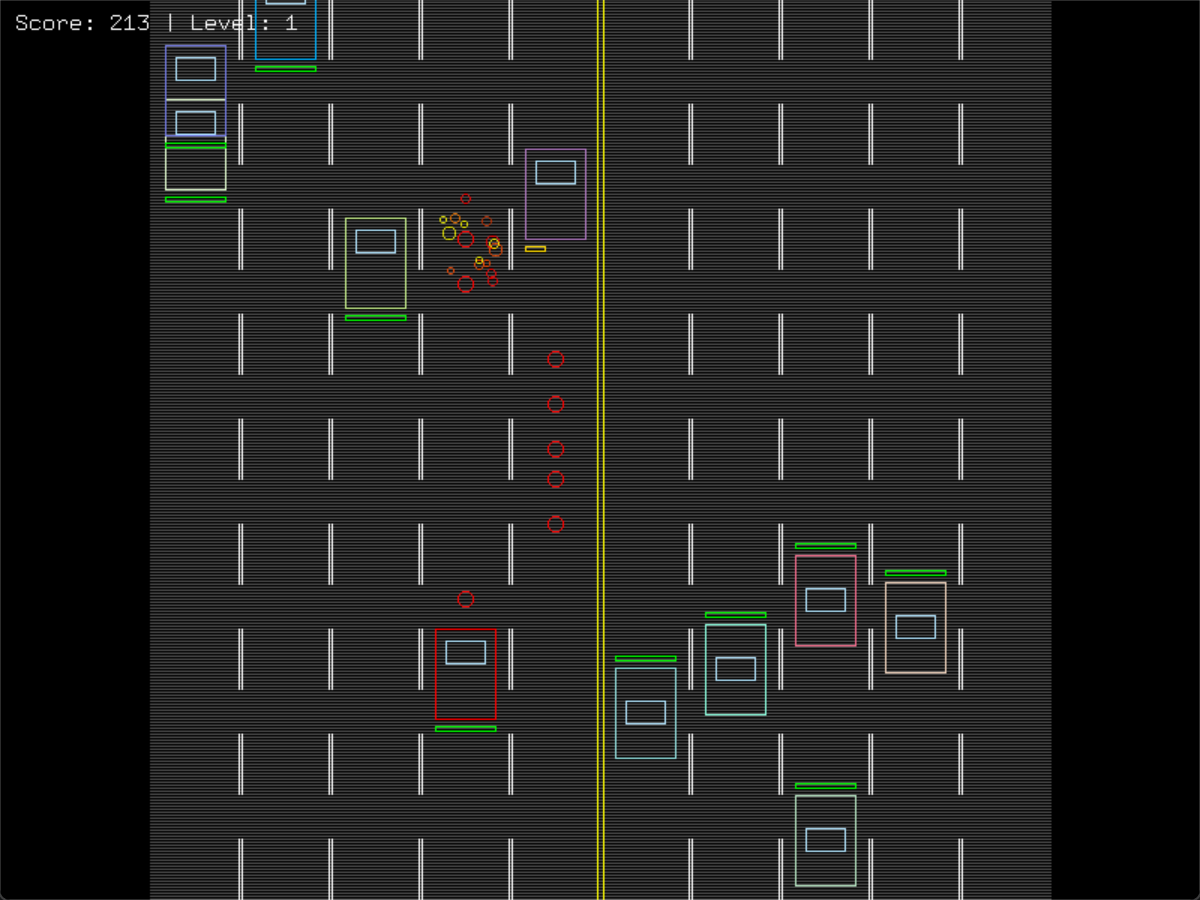
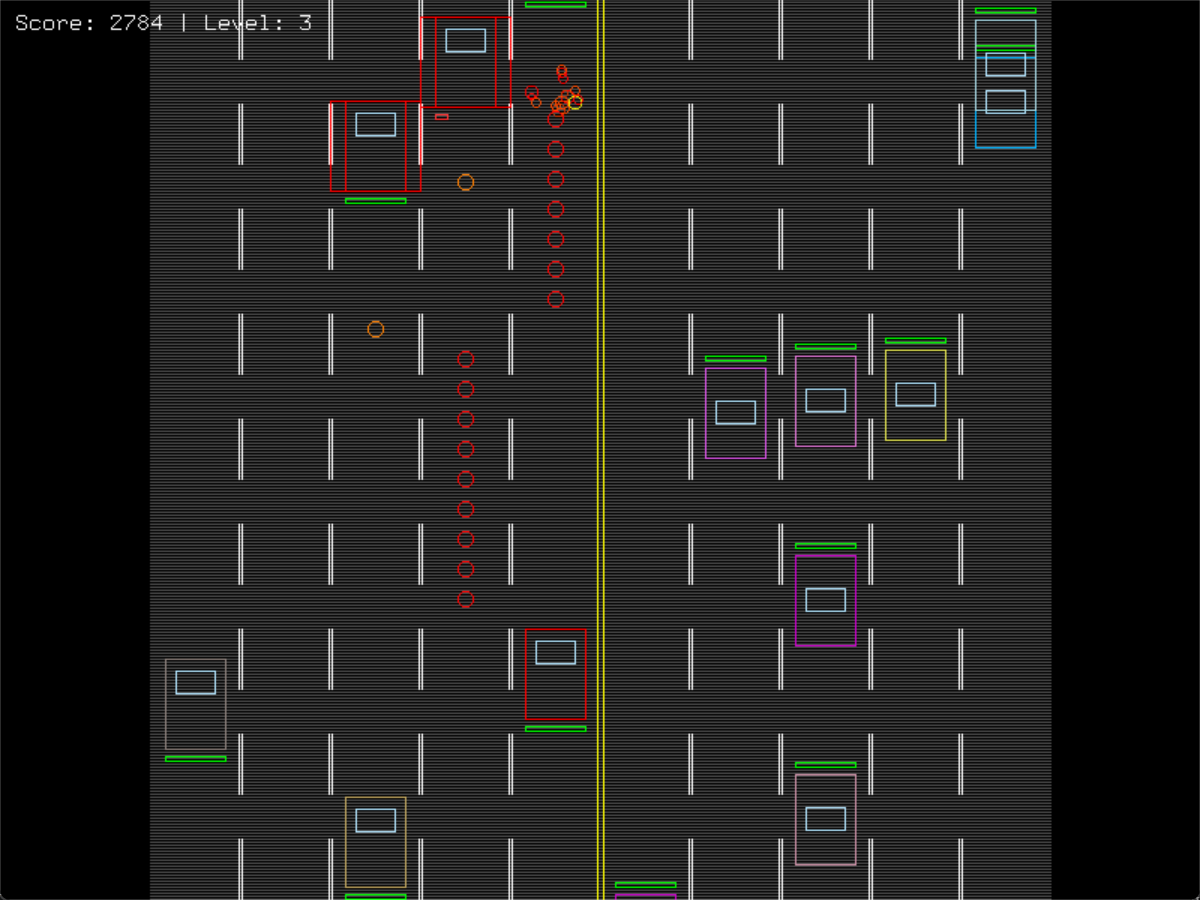
Boss-fight screenshot; rename to Car Destroyer Game

diff --git a/README.md b/README.md
@@ -1,8 +1,8 @@
-# Car Destroyer
+# Car Destroyer Game
 
 A two-way-traffic arcade shooter written in Python with legacy OpenGL and GLUT. You weave through ten lanes of traffic, shoot enemy cars, and survive boss vehicles that fire back, alone or head-to-head with a second player on the same keyboard. Every shape on screen is rasterised point by point with the midpoint line and circle algorithms, not OpenGL's built-in primitives; only text uses GLUT bitmap fonts.
 
-![Car Destroyer gameplay](docs/screenshot.png)
+![Car Destroyer Game: a boss fight, with one boss on low health and a car exploding](docs/screenshot.png)
 
 ## Features
 
@@ -42,8 +42,8 @@ Python 3 · PyOpenGL (GL, GLU, GLUT)
 ## Running locally
 
 ```bash
-git clone https://github.com/aksaN000/car-destroyer-opengl.git
-cd car-destroyer-opengl
+git clone https://github.com/aksaN000/car-destroyer-game.git
+cd car-destroyer-game
 pip install -r requirements.txt
 python car_destroyer.py
 ```
